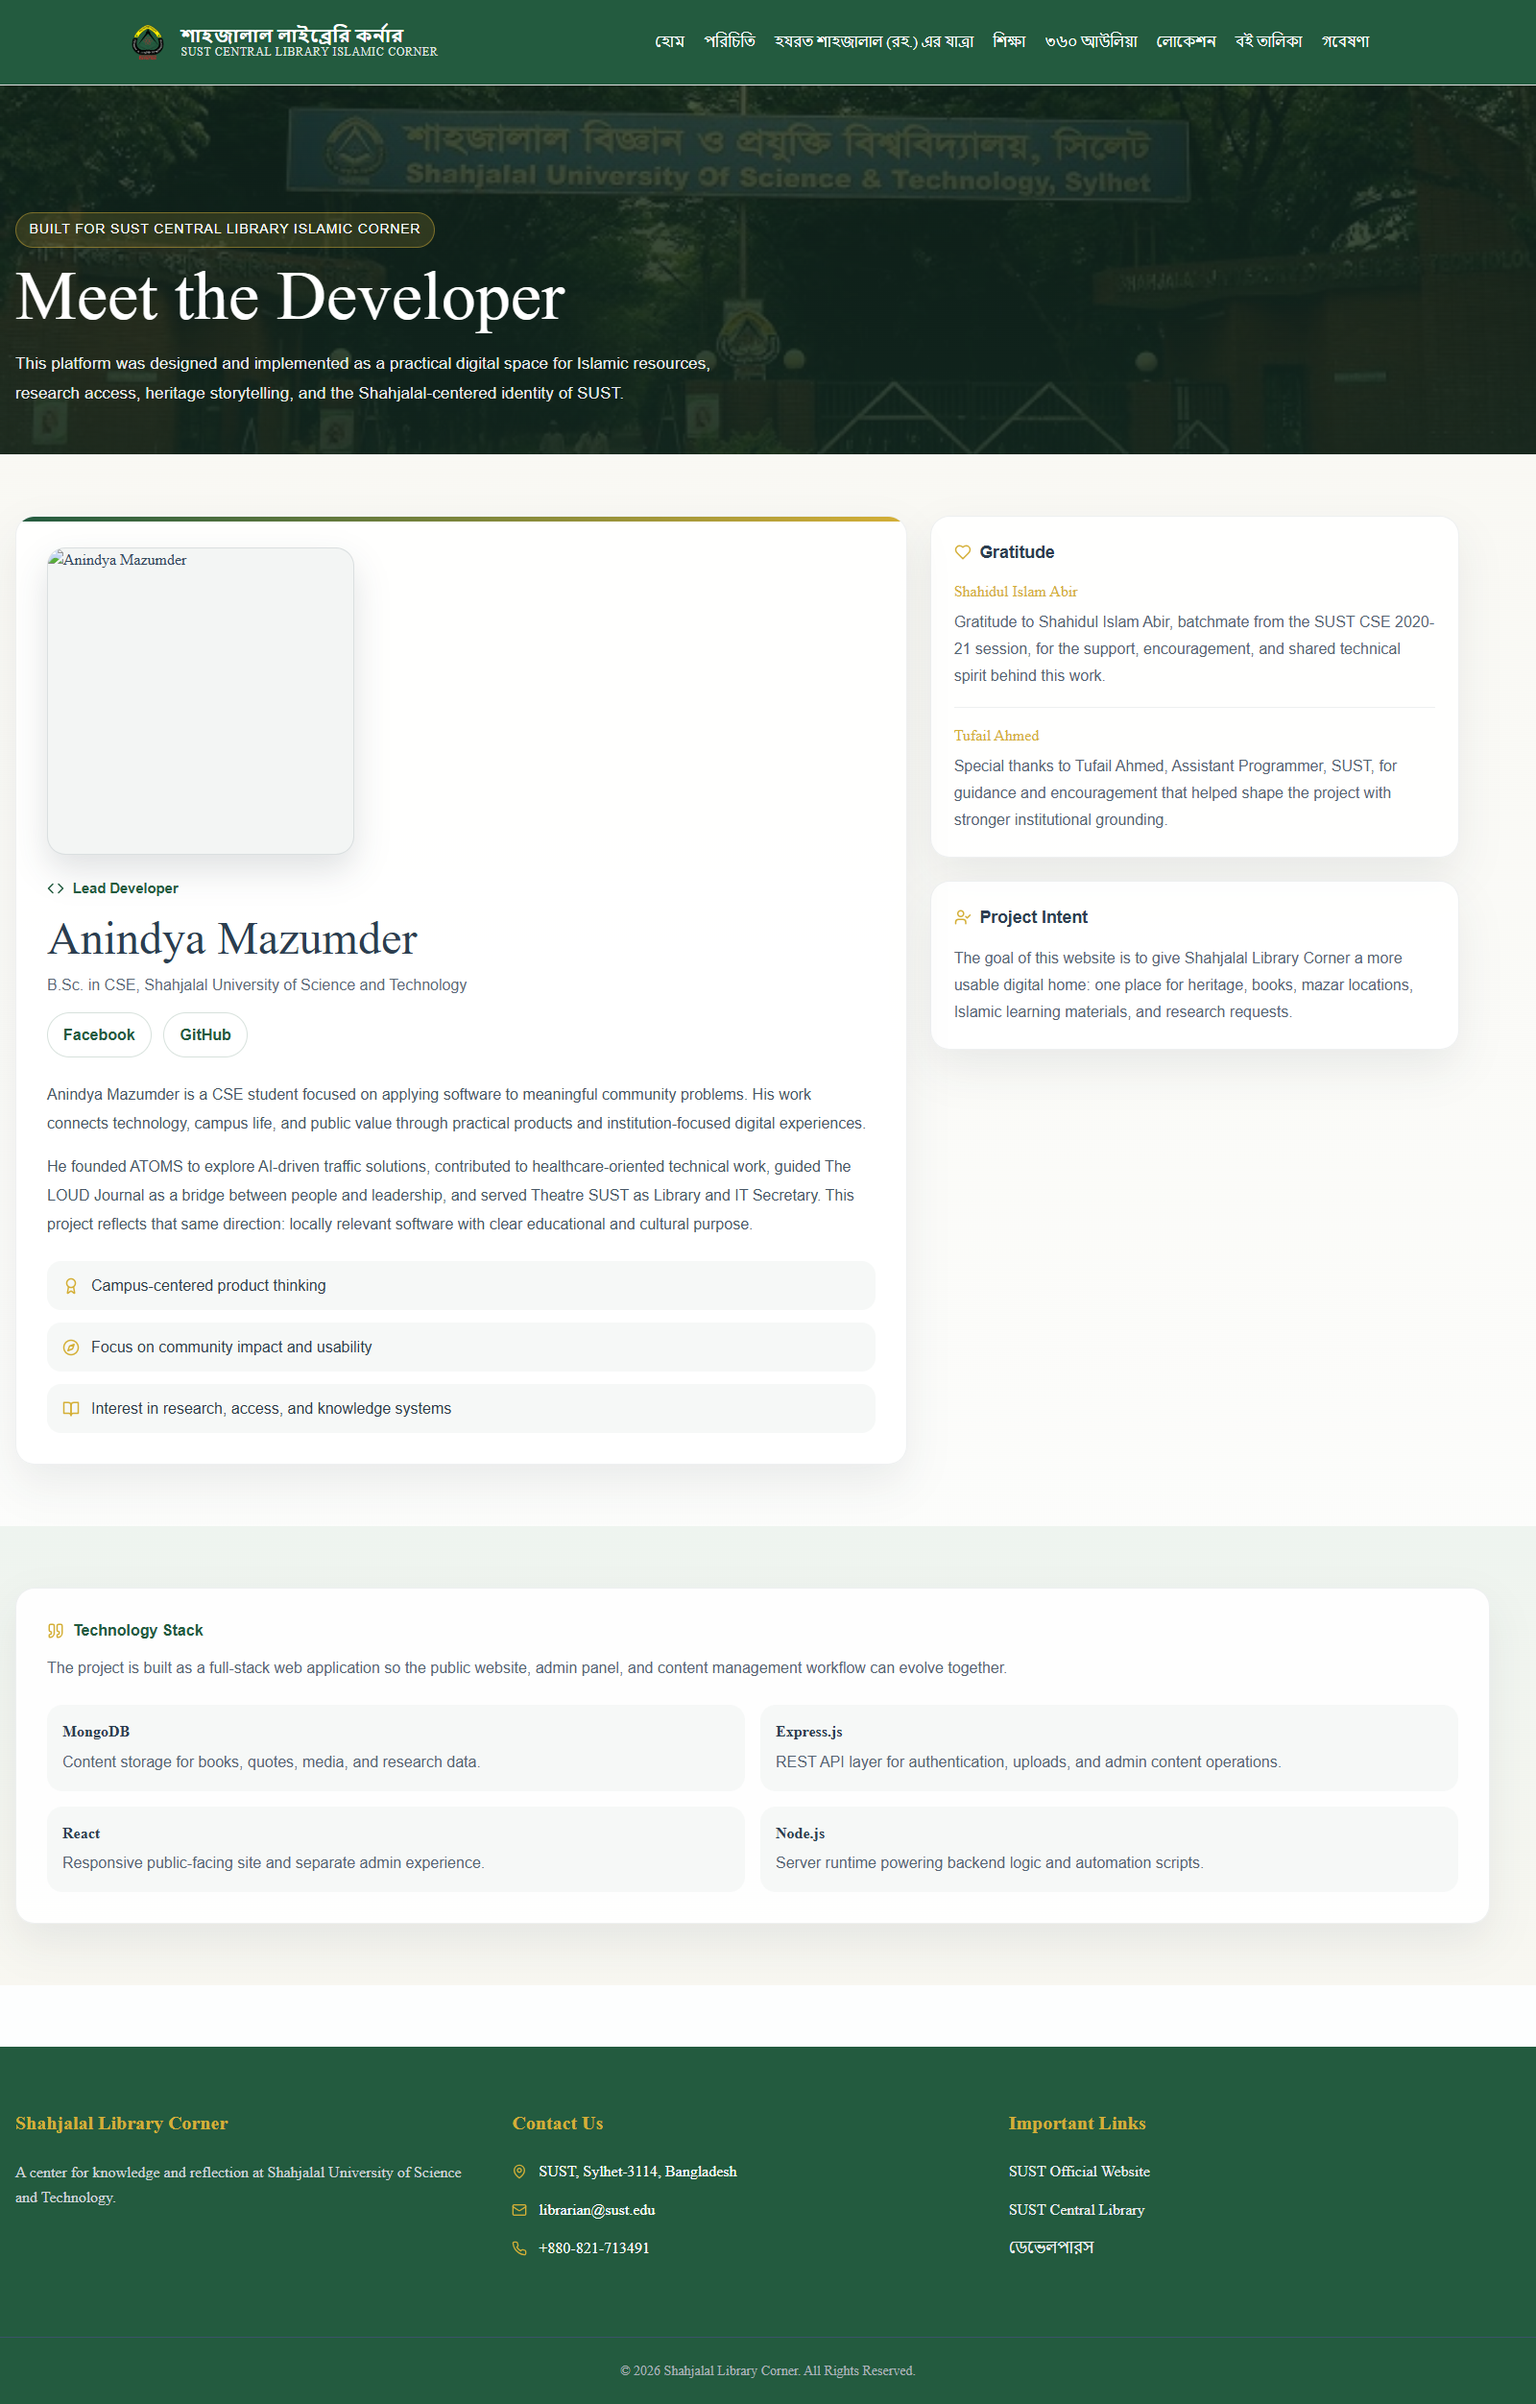
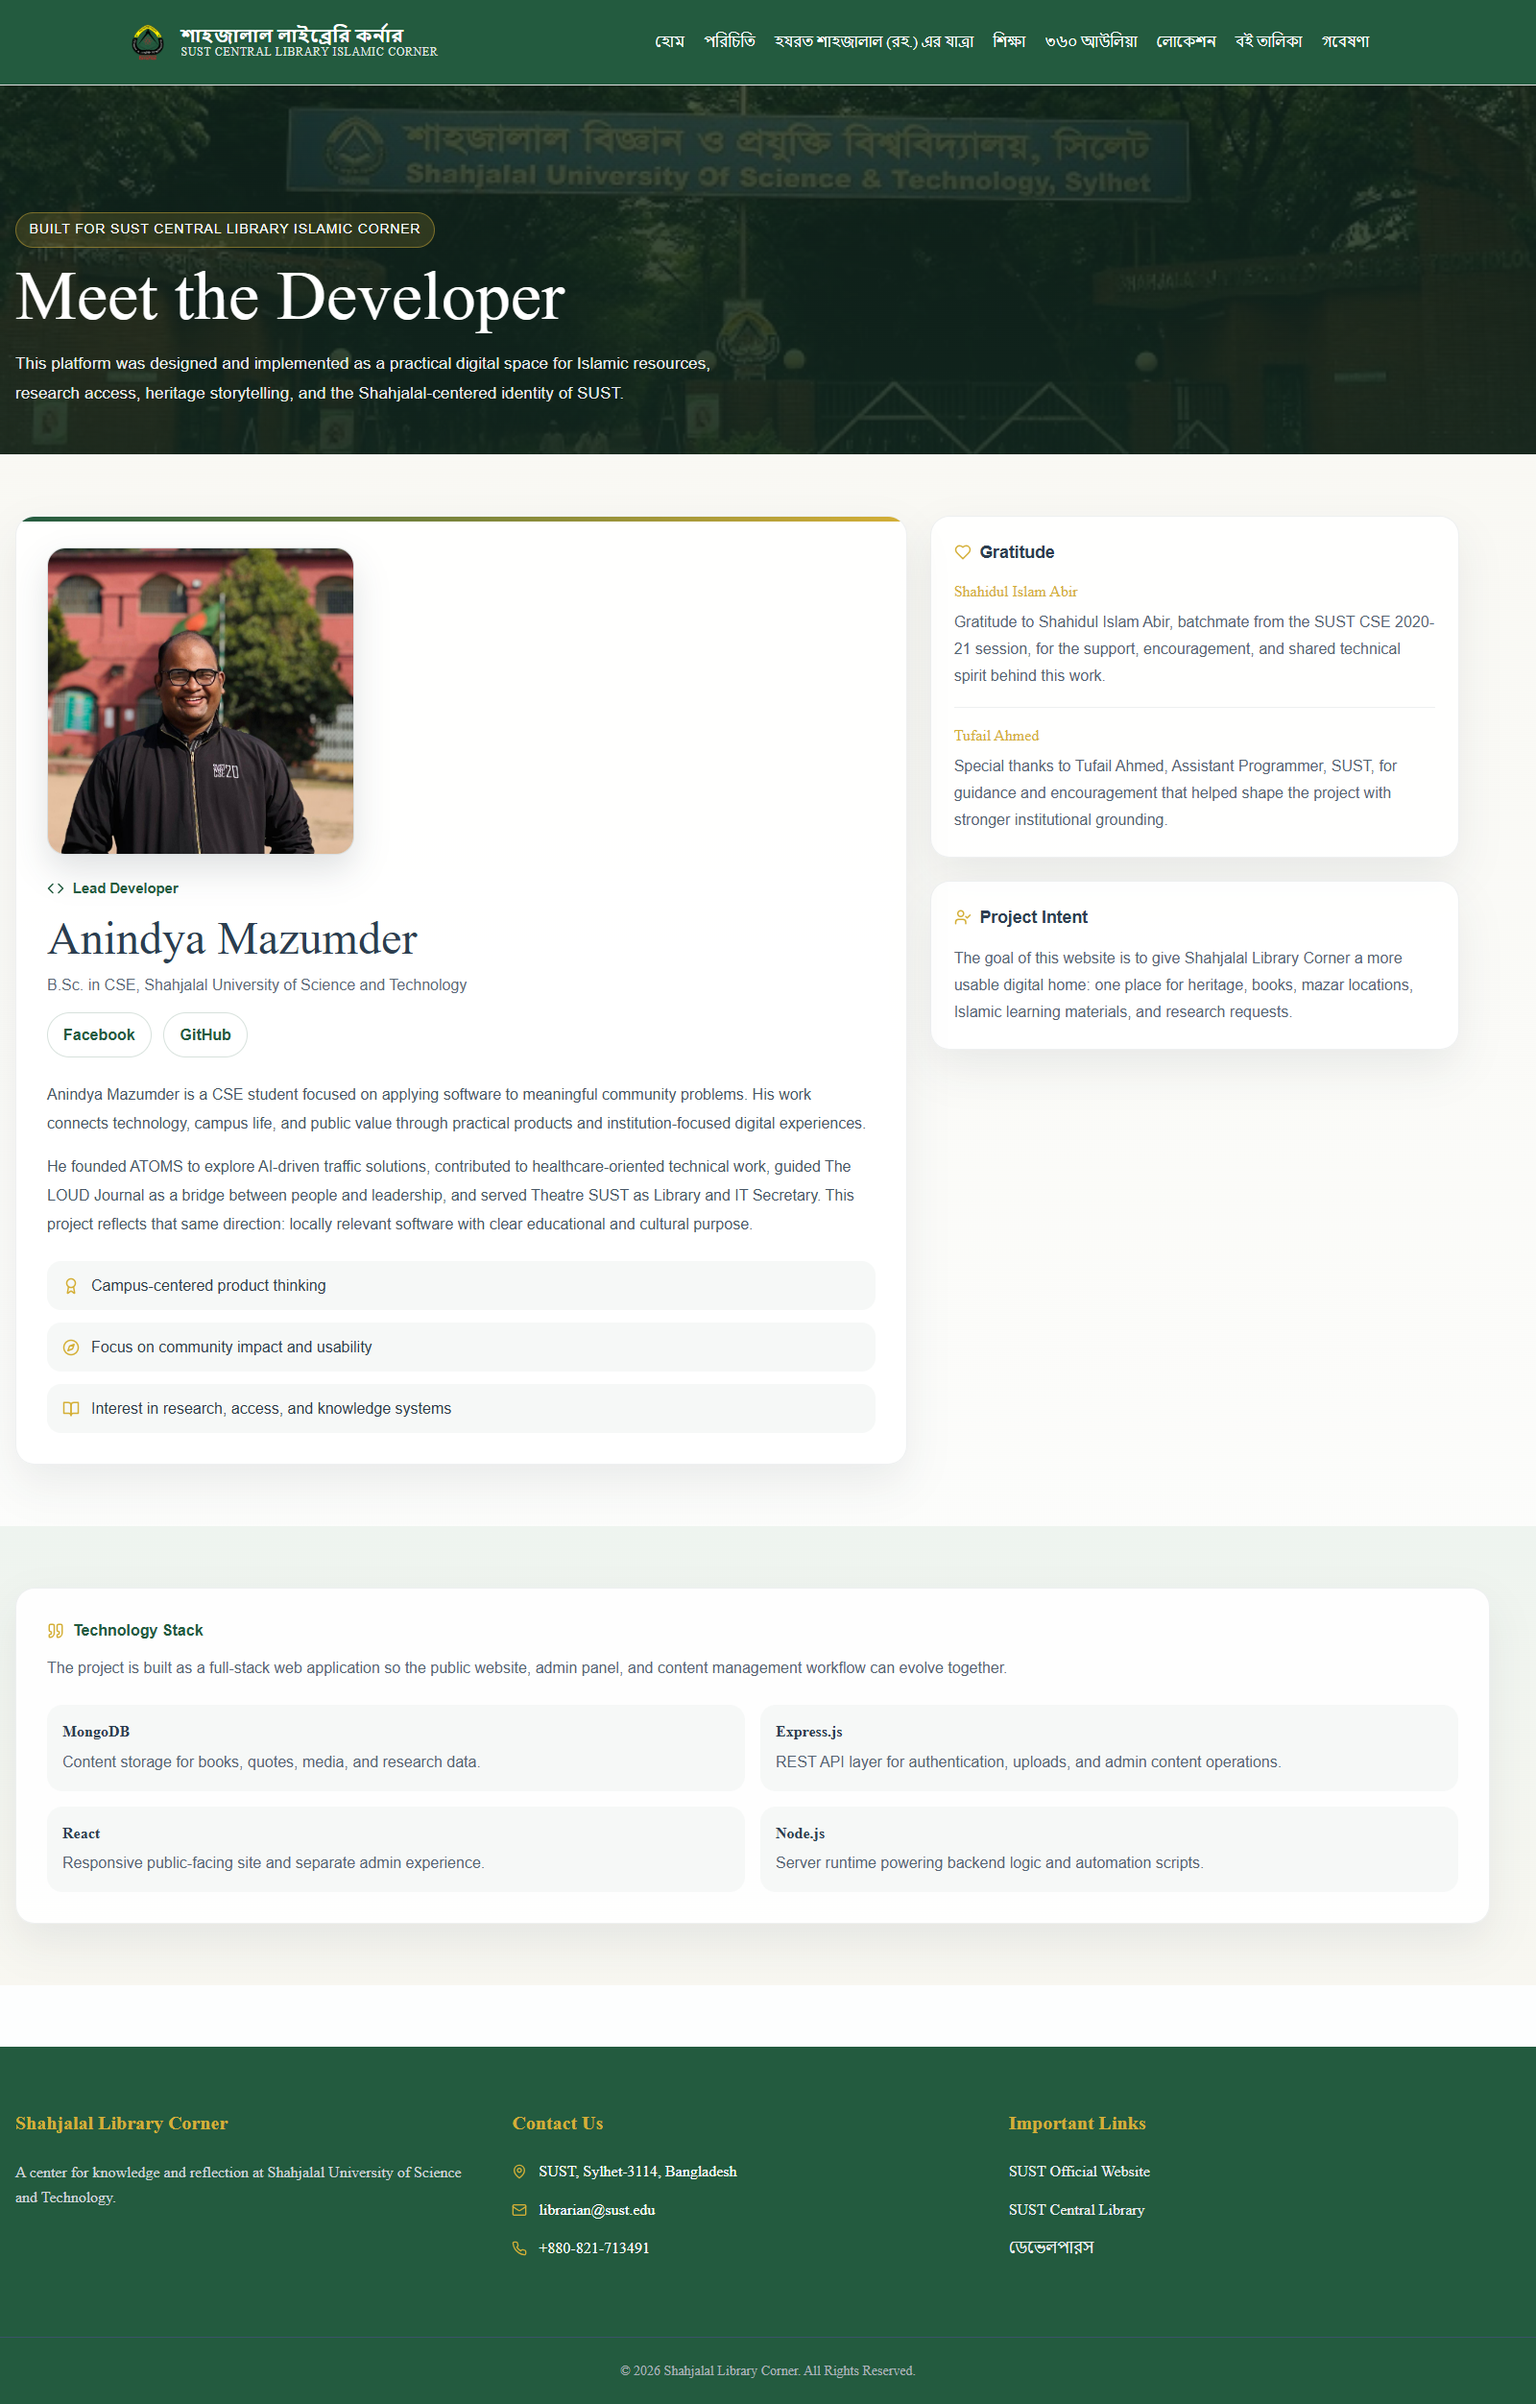
Fix dargah image and update developer photo/screenshots

Changed region(s): [[0.0312, 0.2181, 0.25, 0.374]]

diff --git a/frontend/slc-website/src/App.js b/frontend/slc-website/src/App.js
@@ -12,7 +12,8 @@ import 'leaflet/dist/leaflet.css';
 import logo from './assets/SUST/sust-logo-transparent.png';
 import heroBg from './assets/bg.jpg';
 import sustCampusImg from './assets/hq720.jpg';
-import sustLogoTransparent from './assets/SUST/sust-logo-transparent.png';
+import dargahSharifImg from './assets/Mazar/Shahjalal-Mazar-Dargah-Shahjalal-Sylhet.jpg';
+import developerPhoto from './assets/dev_photo.jpg';
 import hq720 from './assets/hq720.jpg';
 // Import new components
 import Books, { books as booksArray } from './Books';
@@ -144,7 +145,7 @@ const HomePage = () => {
                 </div>
             </section>
             <section className="content-section"><div className="content-grid container"><div className="text-content"><h2 className="section-title">Shahjalal University of Science and Technology</h2><p className="section-paragraph">Named in honor of the great saint, SUST is a leading public university in Bangladesh, renowned for its excellence in science, technology, and research, fostering innovation and knowledge since its inception in 1986.</p></div><motion.img whileHover={{scale: 1.05}} src={sustCampusImg} alt="SUST Campus" className="content-image"/></div></section>
-            <section className="content-section-alt"><div className="content-grid container"><motion.img whileHover={{scale: 1.05}} src={sustLogoTransparent} alt="SUST Logo" className="content-image order-md-2"/><div className="text-content order-md-1"><h2 className="section-title">Hazrat Shahjalal (Rah.) Dargah Sharif</h2><p className="section-paragraph">A revered spiritual center and the final resting place of Hazrat Shahjalal (Rah.), located in Ambarkhana, Sylhet. It is a place of peace, prayer, and pilgrimage, attracting devotees from all over the world seeking blessings and tranquility.</p></div></div></section>
+            <section className="content-section-alt"><div className="content-grid container"><motion.img whileHover={{scale: 1.05}} src={dargahSharifImg} alt="Hazrat Shahjalal (Rah.) Dargah Sharif" className="content-image order-md-2"/><div className="text-content order-md-1"><h2 className="section-title">Hazrat Shahjalal (Rah.) Dargah Sharif</h2><p className="section-paragraph">A revered spiritual center and the final resting place of Hazrat Shahjalal (Rah.), located in Ambarkhana, Sylhet. It is a place of peace, prayer, and pilgrimage, attracting devotees from all over the world seeking blessings and tranquility.</p></div></div></section>
             {/* --- FIGMA DESIGN PHOTO GALLERY SECTION --- */}
             <section className="photo-gallery-section bg-white py-16">
                 <div className="container mx-auto px-4">
@@ -966,7 +967,7 @@ const DevelopersPage = () => {
                 <div className="developers-grid-layout">
                     <article className="developer-card developer-card-primary">
                         <div className="developer-photo-frame">
-                            <img src="/my%20photo.jpg" alt="Anindya Mazumder" className="developer-photo" />
+                            <img src={developerPhoto} alt="Anindya Mazumder" className="developer-photo" />
                         </div>
                         <div className="developer-card-badge">
                             <Code size={18} />
